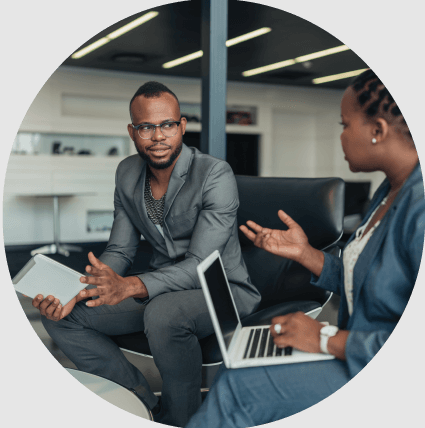
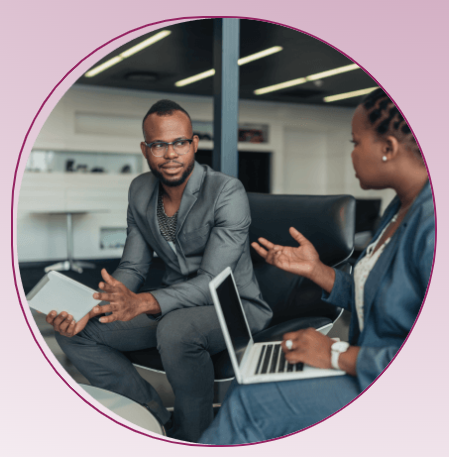
remove that black around the image by enlarging the image by maintaining

diff --git a/src/app/page.tsx b/src/app/page.tsx
@@ -65,38 +65,40 @@ export default function Home() {
             </div>
             <div className="relative flex items-center justify-center">
                 <motion.div
-                    initial={{ opacity: 0, x: 100, y: -200 }}
-                    animate={{ 
-                        opacity: 1, 
-                        x: 0, 
-                        y: 0 
-                    }}
+                    initial={{ opacity: 0, x: 200, y: -200 }}
+                    animate={{ opacity: 1, x: 0, y: 0 }}
                     transition={{
                         type: 'spring',
-                        damping: 8,
-                        stiffness: 100,
+                        stiffness: 50,
+                        damping: 10,
+                        mass: 1,
+                        restDelta: 0.001,
+                        restSpeed: 0.001,
+                        velocity: 0,
                         delay: 0.2
                     }}
-                     className="relative w-80 h-80 md:w-96 md:h-96 lg:w-[480px] lg:h-[480px] rounded-full overflow-hidden"
+                     className="relative w-80 h-80 md:w-96 md:h-96 lg:w-[480px] lg:h-[480px]"
                 >
-                    <Image
-                    src="/landingpage-image.png"
-                    alt="Creative Design"
-                    fill
-                    className="object-cover"
-                    data-ai-hint="abstract design"
-                    />
+                    <div className='relative w-full h-full rounded-full overflow-hidden'>
+                        <Image
+                        src="/landingpage-image.png"
+                        alt="Creative Design"
+                        fill
+                        className="object-cover"
+                        data-ai-hint="abstract design"
+                        />
+                    </div>
                 </motion.div>
             </div>
           </div>
           <div className="absolute bottom-0 left-0 w-full h-20 text-accent overflow-hidden">
             <svg viewBox="0 0 1440 100" preserveAspectRatio="none" className="h-full w-full">
-              <path d="M0,50 C240,0,480,100,720,50 C960,0,1200,100,1440,50 V100 H0 Z" fill="currentColor" />
+              <path d="M0,60 C200,20,400,120,720,60 C1040,0,1240,120,1440,60 V100 H0 Z" fill="currentColor" />
             </svg>
           </div>
           <div className="absolute bottom-0 left-0 w-full h-20 text-primary/30 overflow-hidden">
             <svg viewBox="0 0 1440 100" preserveAspectRatio="none" className="h-full w-full">
-              <path d="M0,60 C200,20,400,120,720,60 C1040,0,1240,120,1440,60 V100 H0 Z" fill="currentColor" />
+              <path d="M0,70 C240,10,480,110,720,70 C960,10,1200,110,1440,70 V100 H0 Z" fill="currentColor" />
             </svg>
           </div>
         </section>
